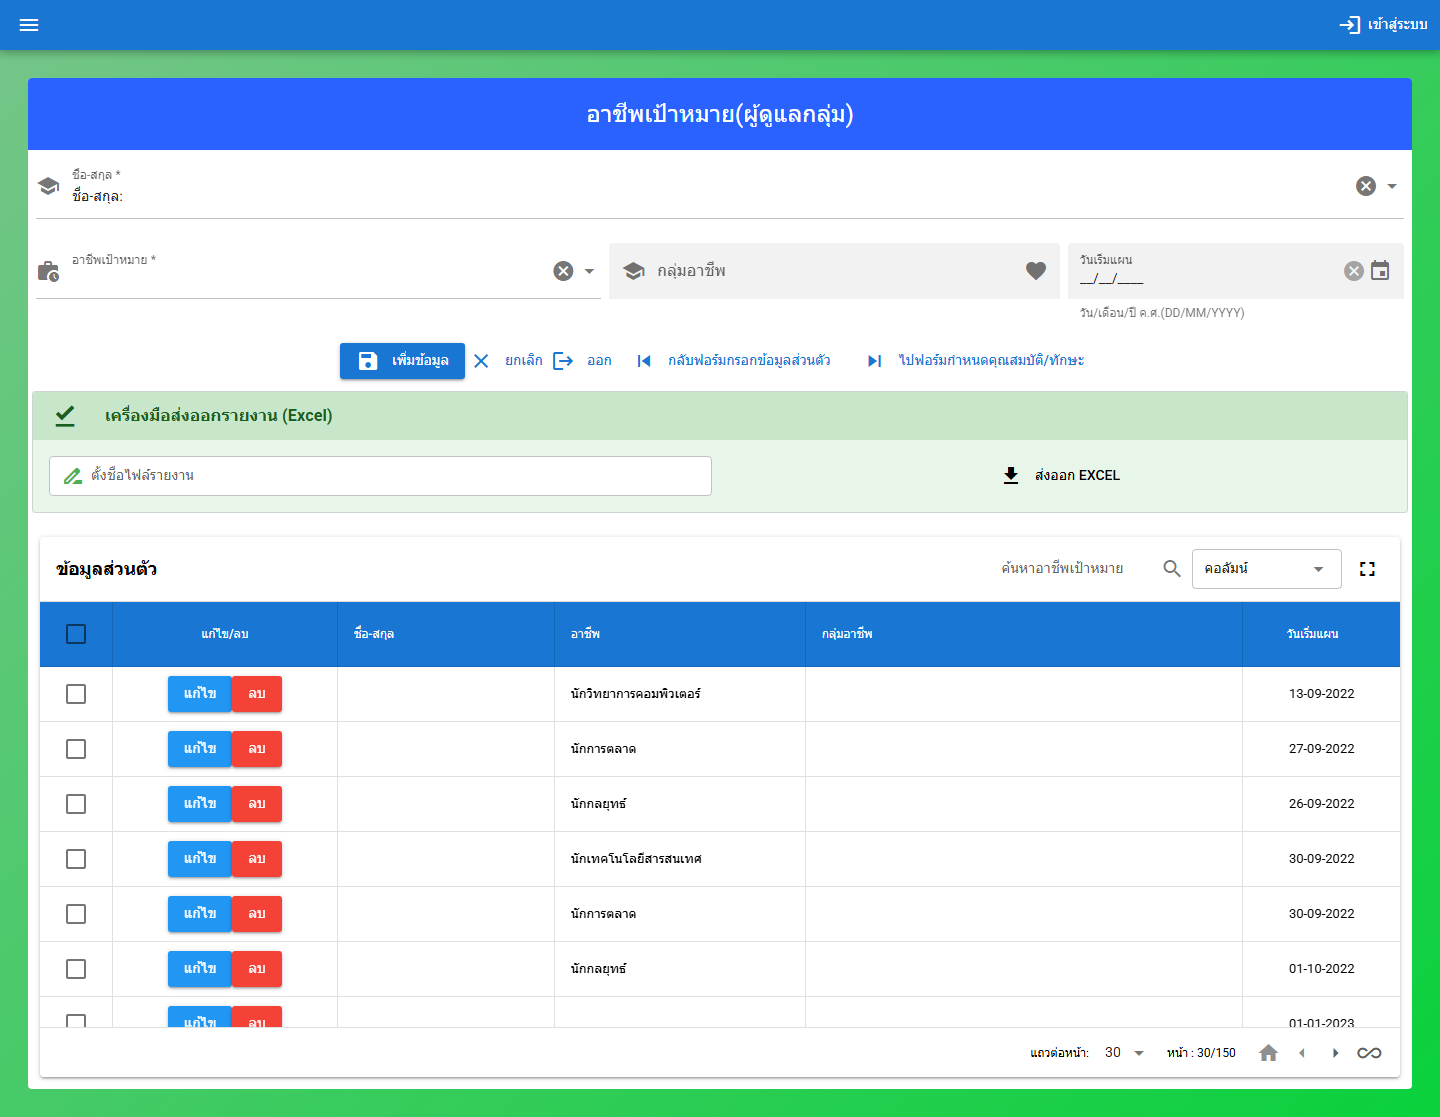
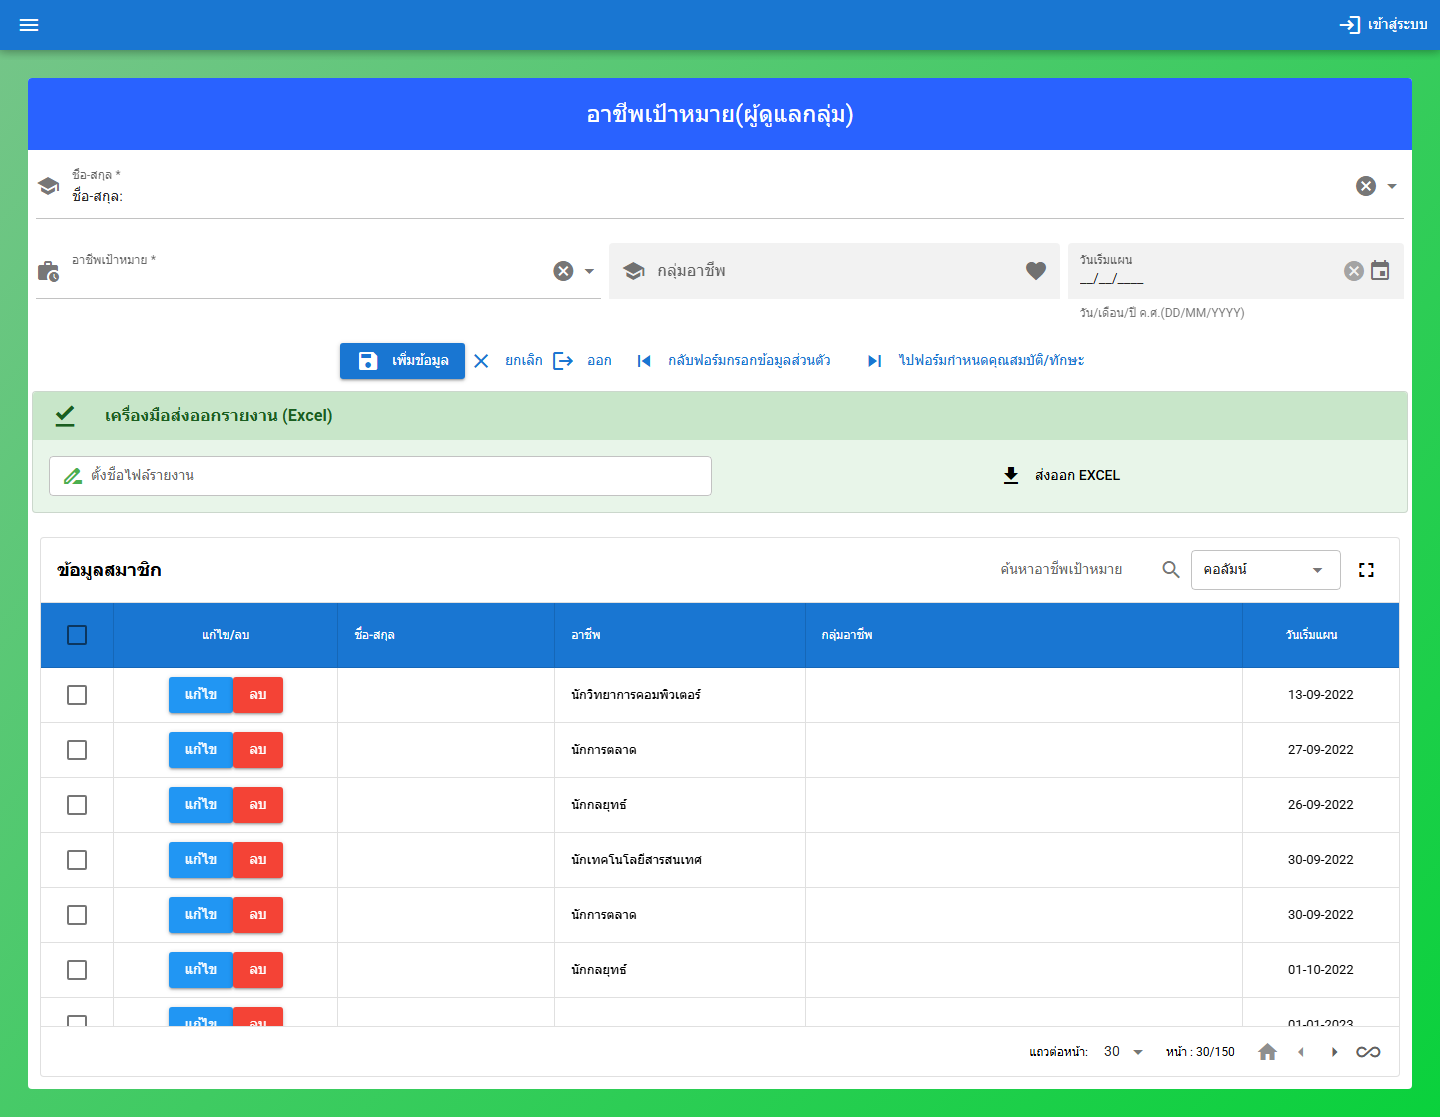
Standardize Super User Form layouts (Qualification, Plan, PlanCareer): container width, table height (500px), sticky headers, and filter sections.

diff --git a/src/pages/super_user_forms/FormQualification.vue b/src/pages/super_user_forms/FormQualification.vue
@@ -250,6 +250,55 @@
                         </q-btn>
                       </div>
                     </div>
+                    <!-- ส่วนการกรองข้อมูล (Filter Section) -->
+                    <div class="row q-col-gutter-sm q-mb-md">
+                      <div class="col-12">
+                        <q-card flat bordered class="bg-blue-1">
+                          <q-item class="bg-blue-2">
+                            <q-item-section avatar>
+                              <q-icon name="manage_search" color="primary" size="md" />
+                            </q-item-section>
+                            <q-item-section>
+                              <q-item-label class="text-bold text-primary text-subtitle1">ส่วนที่ 1: ค้นหาและกรองข้อมูล</q-item-label>
+                              <q-item-label caption class="text-primary">ระบุเงื่อนไขเพื่อดึงข้อมูลคุณสมบัติที่ต้องการ</q-item-label>
+                            </q-item-section>
+                          </q-item>
+
+                          <q-card-section class="q-py-md">
+                            <div class="row q-col-gutter-sm items-center">
+                              <!-- ส่วนเลือกนักเรียน -->
+                              <div class="col-md-5 col-xs-12">
+                                <q-select dense outlined bg-color="white" v-model="filterConditions.full_name"
+                                  :options="members.options" label="กรองรายชื่อนักเรียน (ไม่เลือก = ทั้งหมด)" 
+                                  emit-value map-options clearable>
+                                  <template v-slot:prepend>
+                                    <q-icon name="person" color="primary" />
+                                  </template>
+                                </q-select>
+                              </div>
+                              <!-- ส่วนเลือกอาชีพ -->
+                              <div class="col-md-5 col-xs-12">
+                                <q-select dense outlined bg-color="white" v-model="filterConditions.career_name"
+                                  :options="career_names.options" label="กรองตามอาชีพ (ไม่เลือก = ทั้งหมด)"
+                                  emit-value map-options clearable>
+                                  <template v-slot:prepend>
+                                    <q-icon name="work" color="primary" />
+                                  </template>
+                                </q-select>
+                              </div>
+                              <!-- ปุ่มกรองข้อมูล -->
+                              <div class="col-md-2 col-xs-12">
+                                <q-btn color="primary" unelevated icon="search" label="ค้นหา"
+                                  class="full-width" style="height: 40px">
+                                  <q-tooltip>ค้นหาข้อมูลตามเงื่อนไขที่เลือก</q-tooltip>
+                                </q-btn>
+                              </div>
+                            </div>
+                          </q-card-section>
+                        </q-card>
+                      </div>
+                    </div>
+
                     <!-- Section 2: Report Export Tools -->
                     <div class="row q-mt-sm q-mb-md">
                       <div class="col-12">
@@ -259,8 +308,8 @@
                               <q-icon name="file_download_done" color="green-10" size="md" />
                             </q-item-section>
                             <q-item-section>
-                              <q-item-label class="text-bold text-green-10 text-subtitle1">เครื่องมือส่งออกรายงาน
-                                (Excel)</q-item-label>
+                              <q-item-label class="text-bold text-green-10 text-subtitle1">ส่วนที่ 2: เครื่องมือส่งออกรายงาน (Excel)</q-item-label>
+                              <q-item-label caption class="text-green-8">ระบบจะส่งออกข้อมูลตามเงื่อนไขที่เลือกในส่วนการกรอง</q-item-label>
                             </q-item-section>
                           </q-item>
                           <q-card-section class="q-py-md">
@@ -287,7 +336,7 @@
                     <div class="row">
                       <div class="col-md-12 col-xs-12 q-pa-xs">
                         <div class="q-pa-xs">
-                          <q-table title="ข้อมูลคุณสมบัติ/ทักษะ" :rows="qualifications1" :columns="columns"
+                          <q-table title="ข้อมูลคุณสมบัติ/ทักษะ" :rows="filteredQualifications" :columns="columns"
                             row-key="qa_plan_career_id" :filter="filter" :loading="loading"
                             :visible-columns="visibleColumns" separator="cell" class="my-sticky-header-table" flat bordered
                             :rows-per-page-options="[30, 50, 100, 0]" icon-first-page="home"
@@ -295,7 +344,7 @@
                             :pagination-label="(firstRowIndex, endRowIndex, totalRowsNumber) => {
                               return `หน้า : ${endRowIndex}/${totalRowsNumber}`
                             }" selection="multiple" v-model:selected="selectedRows"
-                            table-header-style="height: 65px; " table-header-class="bg-primary text-white">
+                            table-header-style="height: 65px; " table-header-class="bg-blue-5">
                             <template v-slot:top-left>
                               <div class="row q-gutter-sm items-center">
                                 <q-btn v-if="selectedRows.length > 0" flat color="red" icon="delete"
@@ -420,11 +469,28 @@ export default {
       level_id: null,
       level: { options: [] },
       level_: { options: [] },
+      full_names: { options: [] },
+      full_names_: { options: [] },
+      career_names: { options: [] },
+      career_names_: { options: [] },
+      filterConditions: { full_name: "", career_name: "" },
       $q: useQuasar(),
       members: { options: [] },
       members_: { options: [] },
       member: ref({ label: "", value: "", description: "" }),
     };
+  },
+  computed: {
+    filteredQualifications() {
+      let data = this.qualifications1;
+      if (this.filterConditions.full_name) {
+        data = data.filter(r => r.full_name === this.filterConditions.full_name);
+      }
+      if (this.filterConditions.career_name) {
+        data = data.filter(r => r.career_name === this.filterConditions.career_name);
+      }
+      return data;
+    }
   },
   methods: {
     async exportTable() {
@@ -473,6 +539,12 @@ export default {
       try {
         const res = await axios.get(`${getRestApiUrl(this.$store)}/qa-plan-careers`);
         this.qualifications1 = Array.isArray(res.data) ? res.data : [];
+        
+        // Prepare filter options
+        const uniqueCareers = [...new Set(this.qualifications1.map(item => item.career_name))].sort();
+        this.career_names.options = uniqueCareers.map(c => ({ label: c, value: c }));
+        this.career_names_.options = this.career_names.options;
+
       } catch (error) { this.$q.notify({ message: "Error: " + error.message, color: "negative" }); }
       finally { this.loading = false; }
     },

diff --git a/src/pages/super_user_forms/FormPlanCareer.vue b/src/pages/super_user_forms/FormPlanCareer.vue
@@ -171,8 +171,8 @@
                           <q-table title="ข้อมูลสมาชิก" :rows="plan_careers1" :columns="columns"
                             row-key="plan_career_id" :filter="filter" :loading="loading"
                             selection="multiple" v-model:selected="selected"
-                            :visible-columns="visibleColumns" separator="cell" flat bordered table-header-style="height: 65px; "
-                            table-header-class="bg-primary text-white" :rows-per-page-options="[30, 50, 100, 0]"
+                            :visible-columns="visibleColumns" separator="cell" class="my-sticky-header-table" flat bordered table-header-style="height: 65px; "
+                            table-header-class="bg-blue-5" :rows-per-page-options="[30, 50, 100, 0]"
                             icon-first-page="home" icon-last-page="all_inclusive" icon-next-page="arrow_right"
                             icon-prev-page="arrow_left" :pagination-label="(firstRowIndex, endRowIndex, totalRowsNumber) => {
                               return `หน้า : ${endRowIndex}/${totalRowsNumber}`

diff --git a/src/pages/super_user_forms/FormPlan.vue b/src/pages/super_user_forms/FormPlan.vue
@@ -352,7 +352,7 @@
                         <div class="q-pa-xs">
                           <q-table title="ข้อมูลการพัฒนาตนเอง" :rows="filteredPlans" :columns="main_columns" row-key="plan_id"
                             :filter="filter" :loading="loading" :visible-columns="visibleColumnsPlan" separator="cell"
-                            selection="multiple" v-model:selected="selected" flat bordered
+                            selection="multiple" v-model:selected="selected" class="my-sticky-header-table" flat bordered
                             table-header-style="height: 65px; " table-header-class="bg-blue-5"
                             :rows-per-page-options="[30, 50, 100, 0]" icon-first-page="home"
                             icon-last-page="all_inclusive" icon-next-page="arrow_right" icon-prev-page="arrow_left"
